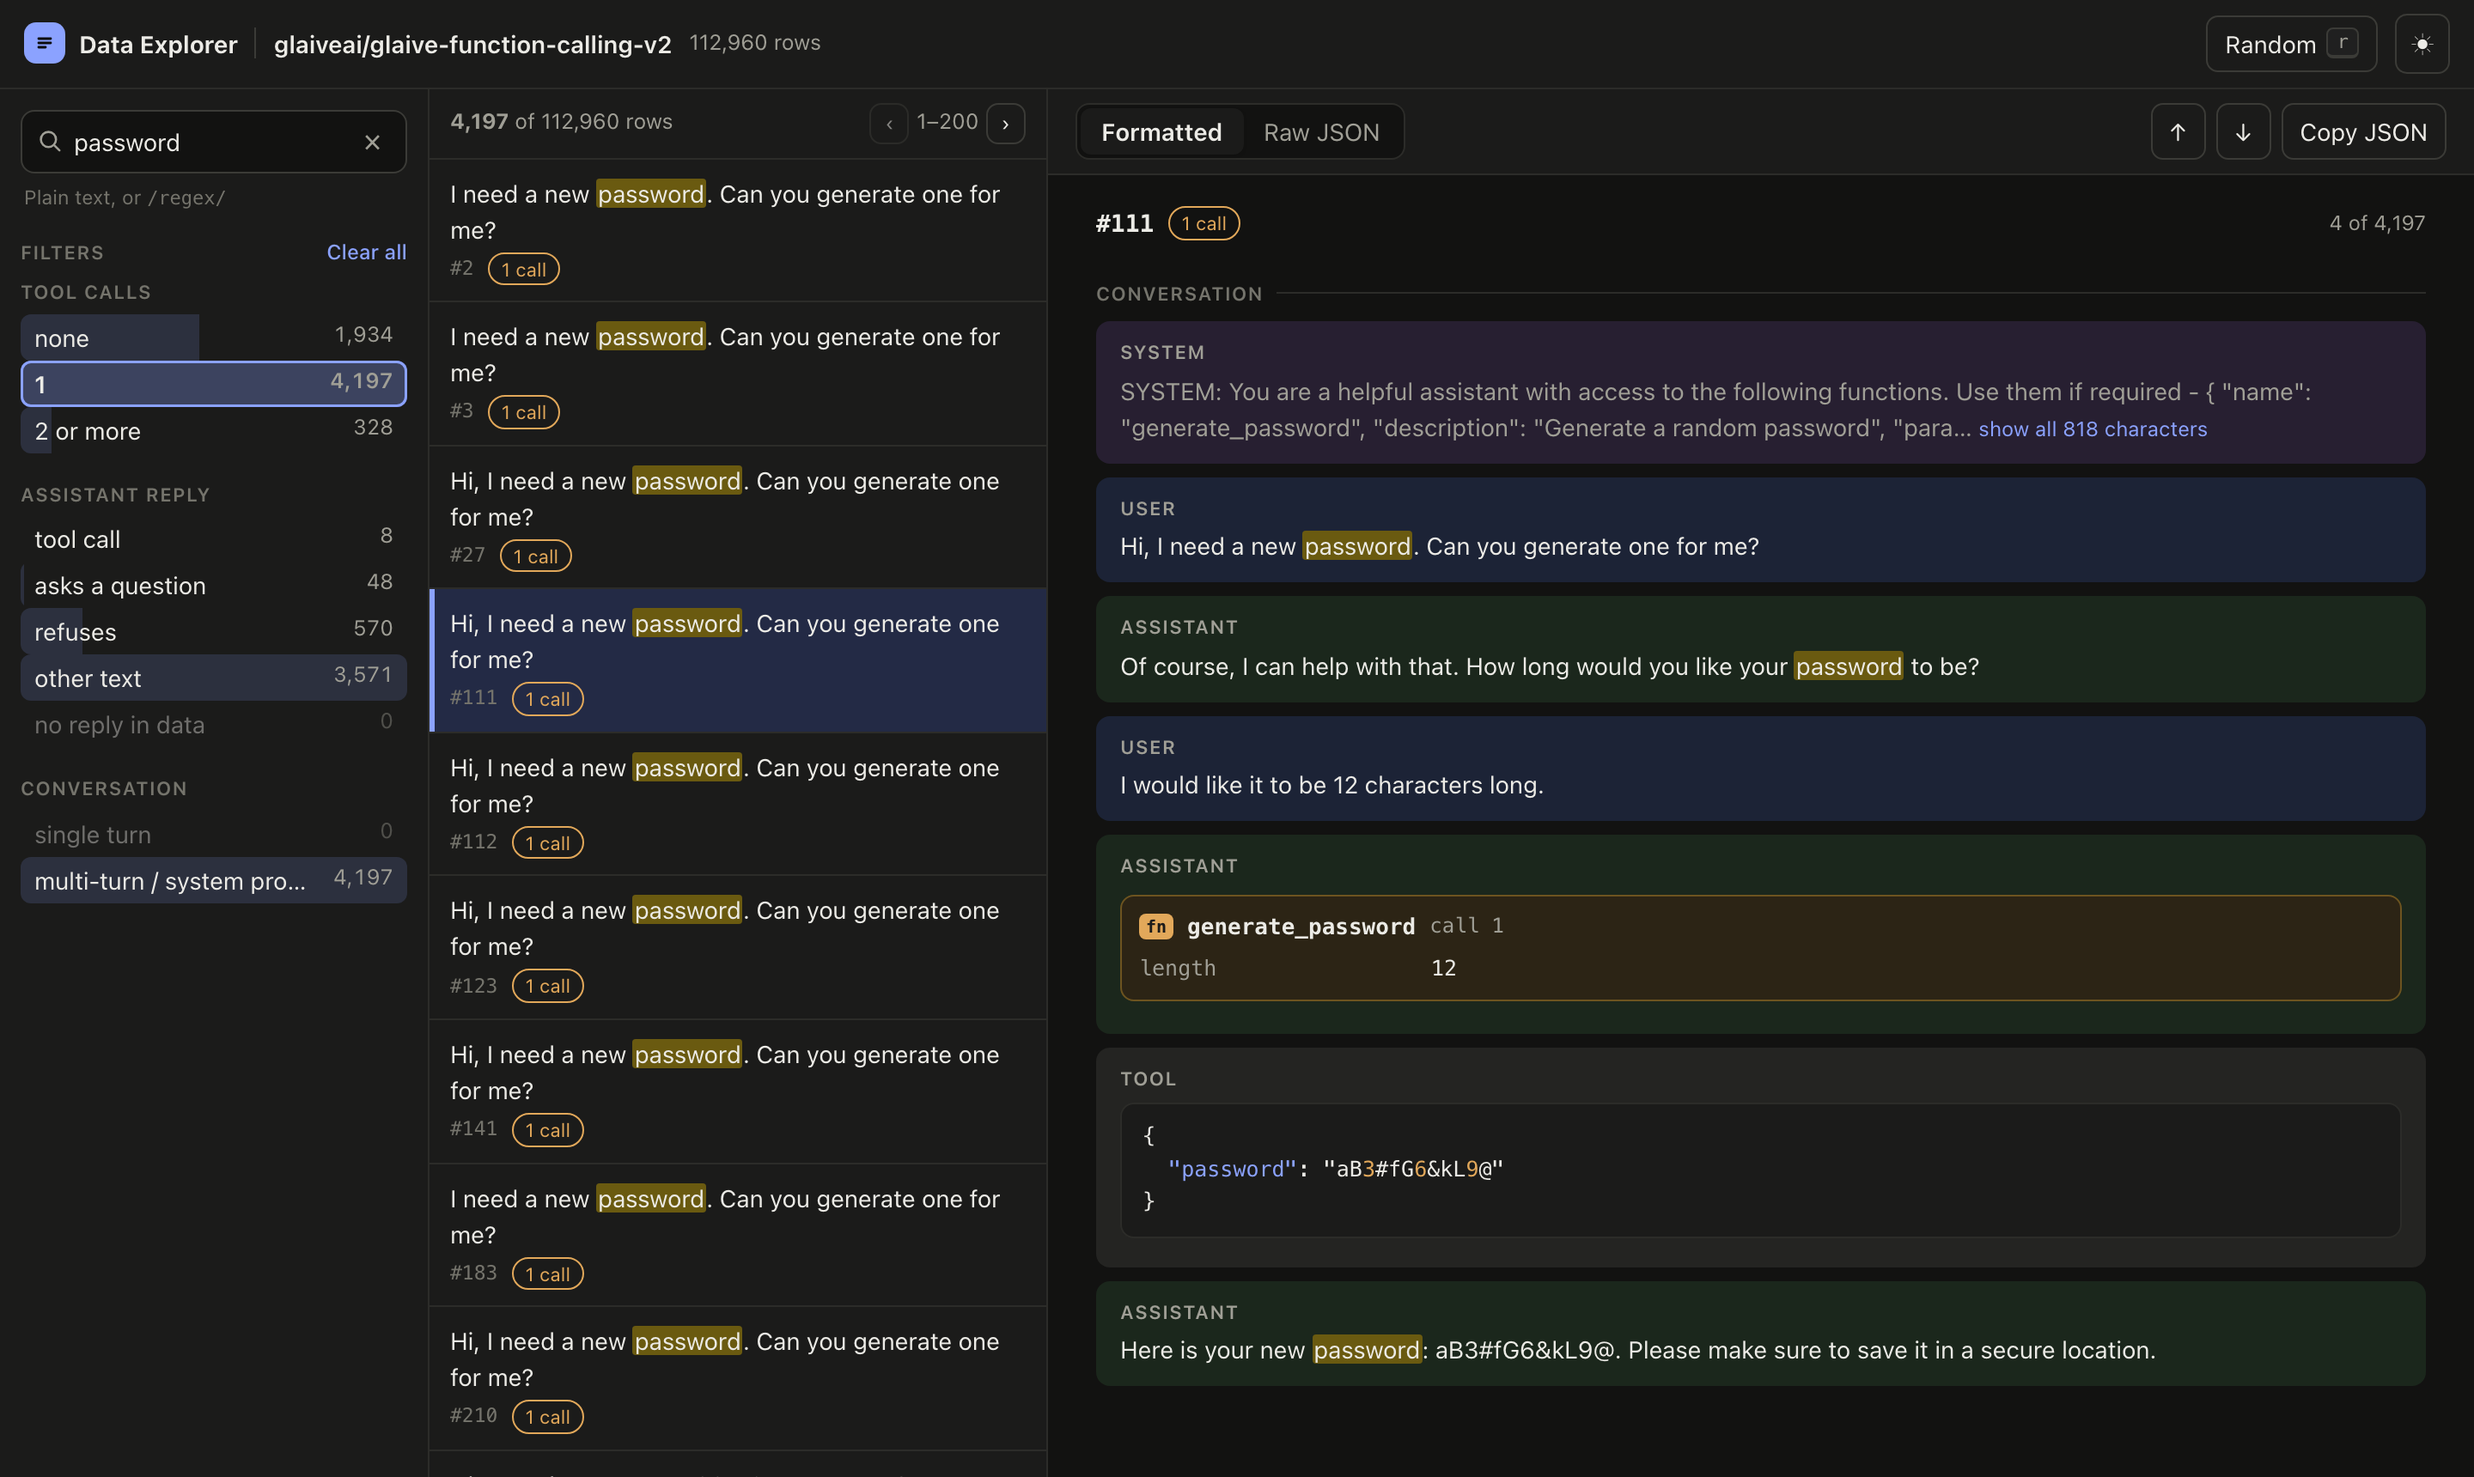
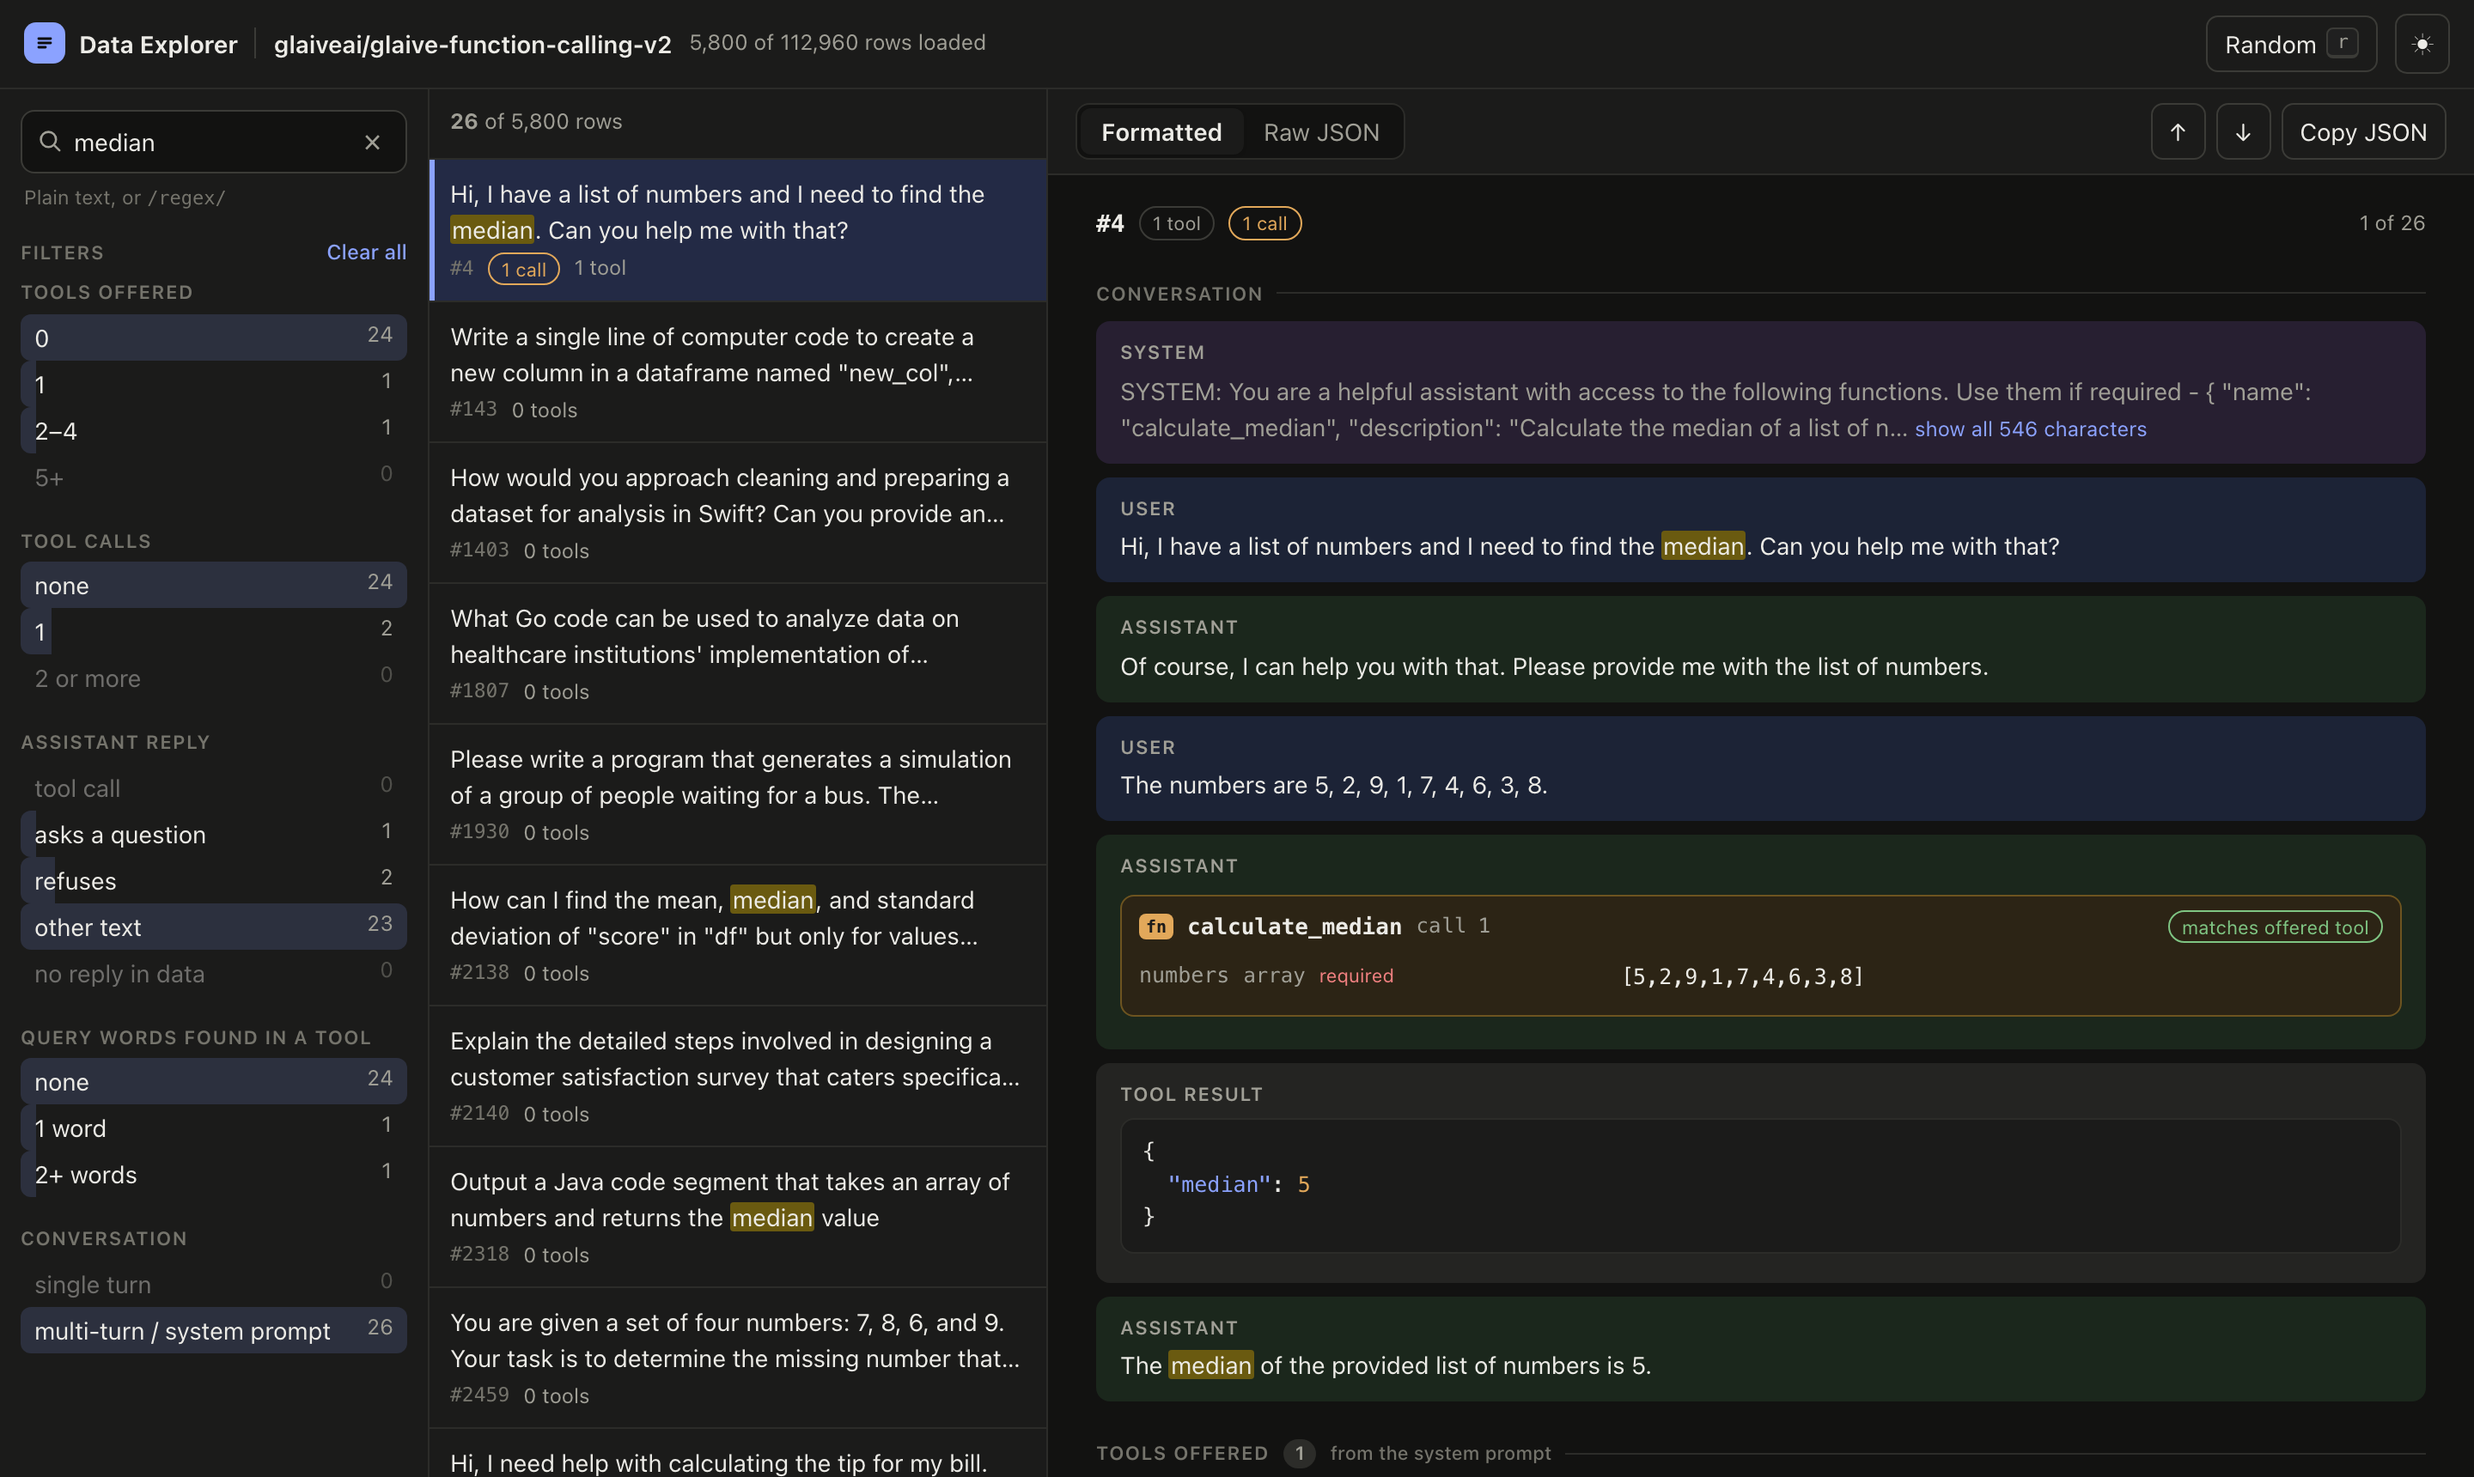
Rewrite the README for users

diff --git a/README.md b/README.md
@@ -1,150 +1,61 @@
 # Dataset Explorer
 
-A fast explorer for Hugging Face datasets, built for LLM chat and tool-calling data. Open any dataset by name, move
-through it with the keyboard, filter with live facet counts, search with text or regex, and read each row the way it
-was meant to be read: as a conversation, with tool definitions and tool calls laid out properly.
+**A fast way to read Hugging Face datasets, built for chat and tool-calling data.**
 
-It started as a replacement for the Hugging Face Data Studio, which is slow and crashes on large chat and
-tool-calling datasets.
+Open any dataset by name and read it the way it was meant to be read: conversations as chat bubbles, tool calls as
+cards with their arguments, tool definitions with their parameters. No waiting, no crashes on big datasets.
+
+### [Open Dataset Explorer](https://hf-dataset-explorer.vercel.app)
 
 ![Dataset Explorer](docs/explorer.png)
 
-**Live:** <https://hf-dataset-explorer.vercel.app>
+## What you can do
 
-## Features
+- **Open any Hugging Face dataset.** Type `owner/name` or paste a link. Try `nvidia/When2Call`,
+  `Team-ACE/ToolACE` or `NousResearch/hermes-function-calling-v1`.
+- **Read rows properly.** Chat messages, tool calls, tool results, `<think>` blocks, Markdown, code and JSON are all
+  formatted. Long messages collapse, with a button to show everything.
+- **Check tool calls against their schema.** Each call shows whether the tool was offered, and each argument shows
+  its type and whether it is required. Unknown and missing arguments are flagged.
+- **Filter with live counts.** Filters for tools offered, calls made, reply type and more, plus filters built from
+  the dataset's own columns. Pick several values, and the counts update as you go.
+- **Search everything.** Plain text or regular expressions such as `/what is the \w+ forecast/`, with matches
+  highlighted.
+- **Move fast.** `j` and `k` for next and previous row, `r` for a random row, `/` to search.
+- **Raw JSON and copy.** Switch to the raw row any time, or copy it.
+- **Light and dark theme.**
 
-- **Open any dataset**: paste `owner/name` or a huggingface.co link. Gated and private datasets work after
-  "Sign in with Hugging Face".
-- **Rows rendered by shape**: chat bubbles, tool-call cards with their arguments, collapsible tool definitions with
-  parameter tables, `<think>` blocks, tool results. Anything else falls back to a field view with raw JSON.
-- **Facets with live counts**: derived for tool-calling data (tools offered, calls made, reply kind, query words
-  found in a tool, single vs multi-turn) and generated from the remaining columns (categories, numeric ranges,
-  list lengths). Multi-select, and each count ignores its own selection.
-- **Search**: plain text or `/regex/`, with highlighting in the list and the row.
-- **Fast navigation**: `j`/`k` next and previous, `r` random row, `/` to search, paging, light and dark themes.
-- **Huge datasets**: with the optional backend, the whole dataset is indexed once and every search, filter and
-  facet runs over all rows in milliseconds.
-
-| Landing page | Dark mode |
+| Start page | Dark theme |
 | --- | --- |
-| ![Landing page](docs/landing.png) | ![Dark mode](docs/explorer-dark.png) |
+| ![Start page](docs/landing.png) | ![Dark theme](docs/explorer-dark.png) |
 
-## Supported formats
+## Gated and private datasets
 
-The explorer reads the schema and a sample of rows, then decides which column plays which role:
+Click **Sign in with Hugging Face** on the start page, then open the dataset. You still need to have been granted
+access to the dataset on Hugging Face itself.
 
-| Role | Recognised as |
-| --- | --- |
-| Conversation | OpenAI `messages`, ShareGPT `conversations` (`from`/`value`), BFCL nested `question`, `USER:`/`ASSISTANT:` transcripts, or a plain `query` string |
-| Tool definitions | OpenAI `{type: "function", function: {...}}`, flat `{name, description, parameters}`, xLAM style parameters, JSON strings of either |
-| Tool calls | `answers`, `tool_calls`, inline `<TOOLCALL>`, `<tool_call>` and glaive `<functioncall>` |
-| Responses | `chosen_response`, `rejected_response`, `response`, `output`, `completion` and similar |
+## Which datasets look best
 
-Tested on When2Call, xLAM, ToolACE, Hermes function calling and Glaive function calling.
+Anything on Hugging Face opens. Chat and tool-calling datasets get the full treatment:
 
-## How it works
+- OpenAI-style `messages` and ShareGPT `conversations`
+- Tool definitions in OpenAI, xLAM, BFCL and Hermes styles, including ones written into the system prompt
+- Tool calls in `tool_calls`, `answers`, `<tool_call>`, `<TOOLCALL>` and Glaive `<functioncall>` form
+- Preference data with chosen and rejected responses
 
-```mermaid
-flowchart LR
-  B[Browser<br/>static site on Vercel] -- "rows, facets, search" --> S[Server<br/>Node + DuckDB on Render]
-  S -- "Parquet files, once" --> H[(Hugging Face)]
-  B -. "browser-only mode<br/>100 rows per request" .-> H
-```
+Other datasets open as a plain list of fields.
 
-- **Browser-only mode** (no backend): the page calls the Hugging Face datasets API directly, loads rows in pages of
-  100 and keeps them in memory. Facets and search cover the rows loaded so far. Nothing needs hosting except the
-  static files.
-- **Server mode**: the backend downloads a dataset's Parquet files once, loads them into DuckDB and indexes every
-  row. The browser then holds only the current page. If the server is unreachable or a dataset is too large, the
-  page falls back to browser-only mode on its own.
+## Good to know
 
-The schema detection, row normalizer and facet logic live in `prototype/js/schema.js` and are shared by the browser
-and the server, so both behave the same.
-
-## Quick start
-
-```bash
-# Frontend (static files, no build step)
-python3 -m http.server 8765 -d prototype        # http://localhost:8765
-
-# Backend (optional)
-cd server && npm install && npm start            # http://localhost:8787
-```
-
-To use the local backend, run this once in the browser console on the page:
-
-```js
-localStorage.setItem("dx.api", "http://localhost:8787")
-```
-
-Run the tests with `npm test` (Node 20 or newer).
-
-## Configuration
-
-Frontend settings are in `prototype/js/config.js`:
-
-| Setting | Purpose |
-| --- | --- |
-| `API_URL` | URL of the backend. Empty means browser-only mode. |
-| `HF_CLIENT_ID` | Client id of a public Hugging Face OAuth app, to enable "Sign in with Hugging Face". |
-| `HF_SCOPES` | OAuth scopes, `openid profile gated-repos` by default. |
-
-Backend settings are environment variables, all optional. See [`server/.env.example`](server/.env.example):
-`DATA_DIR`, `ALLOWED_ORIGINS`, `MAX_DATASET_GB`, `CACHE_MAX_GB`, `INDEX_MAX_ROWS`, `PRIVATE_TTL_HOURS`,
-`PUBLIC_IDLE_HOURS`, `DUCKDB_MEMORY`, `DUCKDB_THREADS`, `MAX_JOBS`.
-
-### Hugging Face sign-in
-
-Create a public OAuth app (no client secret) at <https://huggingface.co/settings/applications/new>, add the exact URL
-the site is served from as a redirect URI (for local development, `http://localhost/` covers any port), and paste
-its client id into `HF_CLIENT_ID`. Access to a gated dataset still has to be approved for your account on its
-Hugging Face page.
-
-## Deployment
-
-The frontend is static and deploys to Vercel with the project root set to `prototype`. The backend deploys to
-Render from the `Dockerfile` in the repository root, described by [`render.yaml`](render.yaml): in Render choose
-New, then Blueprint, and pick this repository.
-
-Pushes to `main` run CI on GitHub Actions, and Vercel and Render deploy from the same repository.
-
-On Render's free plan the backend sleeps after 15 minutes without traffic and its disk is ephemeral. The page wakes
-it on load (up to a minute), and datasets are downloaded again after a sleep. Raise the plan and add a disk to keep
-them cached across restarts, and raise `MAX_DATASET_GB`, `CACHE_MAX_GB` and `DUCKDB_MEMORY` with it.
+- Small and medium datasets are indexed on a server, so search and filters cover every row. Very large datasets load
+  in your browser instead, a few thousand rows at a time in the background, and search covers what has loaded.
+- The server runs on free hosting, so the first visit after a quiet period can take up to a minute to wake it up.
 
 ## Privacy
 
-- Browser-only mode sends nothing to any server except Hugging Face. Tokens stay in the browser.
-- In server mode the token is forwarded to the backend so it can download gated Parquet files. It is used for the
-  download only and is never stored.
-- Data that needed a token is cached per token, readable only with that token, and deleted when the token expires,
-  when you sign out. Data readable without a token is cached once
-  and shared.
-- Hugging Face dataset licenses still apply. This project does not redistribute dataset contents.
-
-## Project layout
-
-```
-prototype/        static frontend (index.html, css/, js/)
-  js/schema.js    schema detection, row normalizer, facets (shared with the server)
-  js/hf.js        Hugging Face datasets API client for browser-only mode
-  js/remote.js    client for the backend
-  js/auth.js      Sign in with Hugging Face (OAuth, PKCE)
-server/           Node backend (Hono + DuckDB)
-test/             unit tests for the shared logic
-docs/             screenshots
-```
-
-`prototype/build_data.py` can also write a few datasets as local JSONL samples into `prototype/data/`, which the
-landing page then lists.
-
-## Limitations
-
-- Only datasets that the Hugging Face viewer can convert to Parquet open in server mode.
-- The server indexes the first 2,000,000 rows of a split (`INDEX_MAX_ROWS`), and splits larger than
-  `MAX_DATASET_GB` open in browser-only mode instead.
-- The reply kind and query-overlap facets are simple heuristics.
-- Opening a very large dataset for the first time takes a while, because it is downloaded and indexed once.
+- Your Hugging Face sign-in is only used to read the datasets you ask for.
+- Data that needed your sign-in is stored for you alone, and deleted when you sign out or your sign-in expires.
+- Dataset contents are never republished. Hugging Face dataset licenses still apply.
 
 ## License
 
